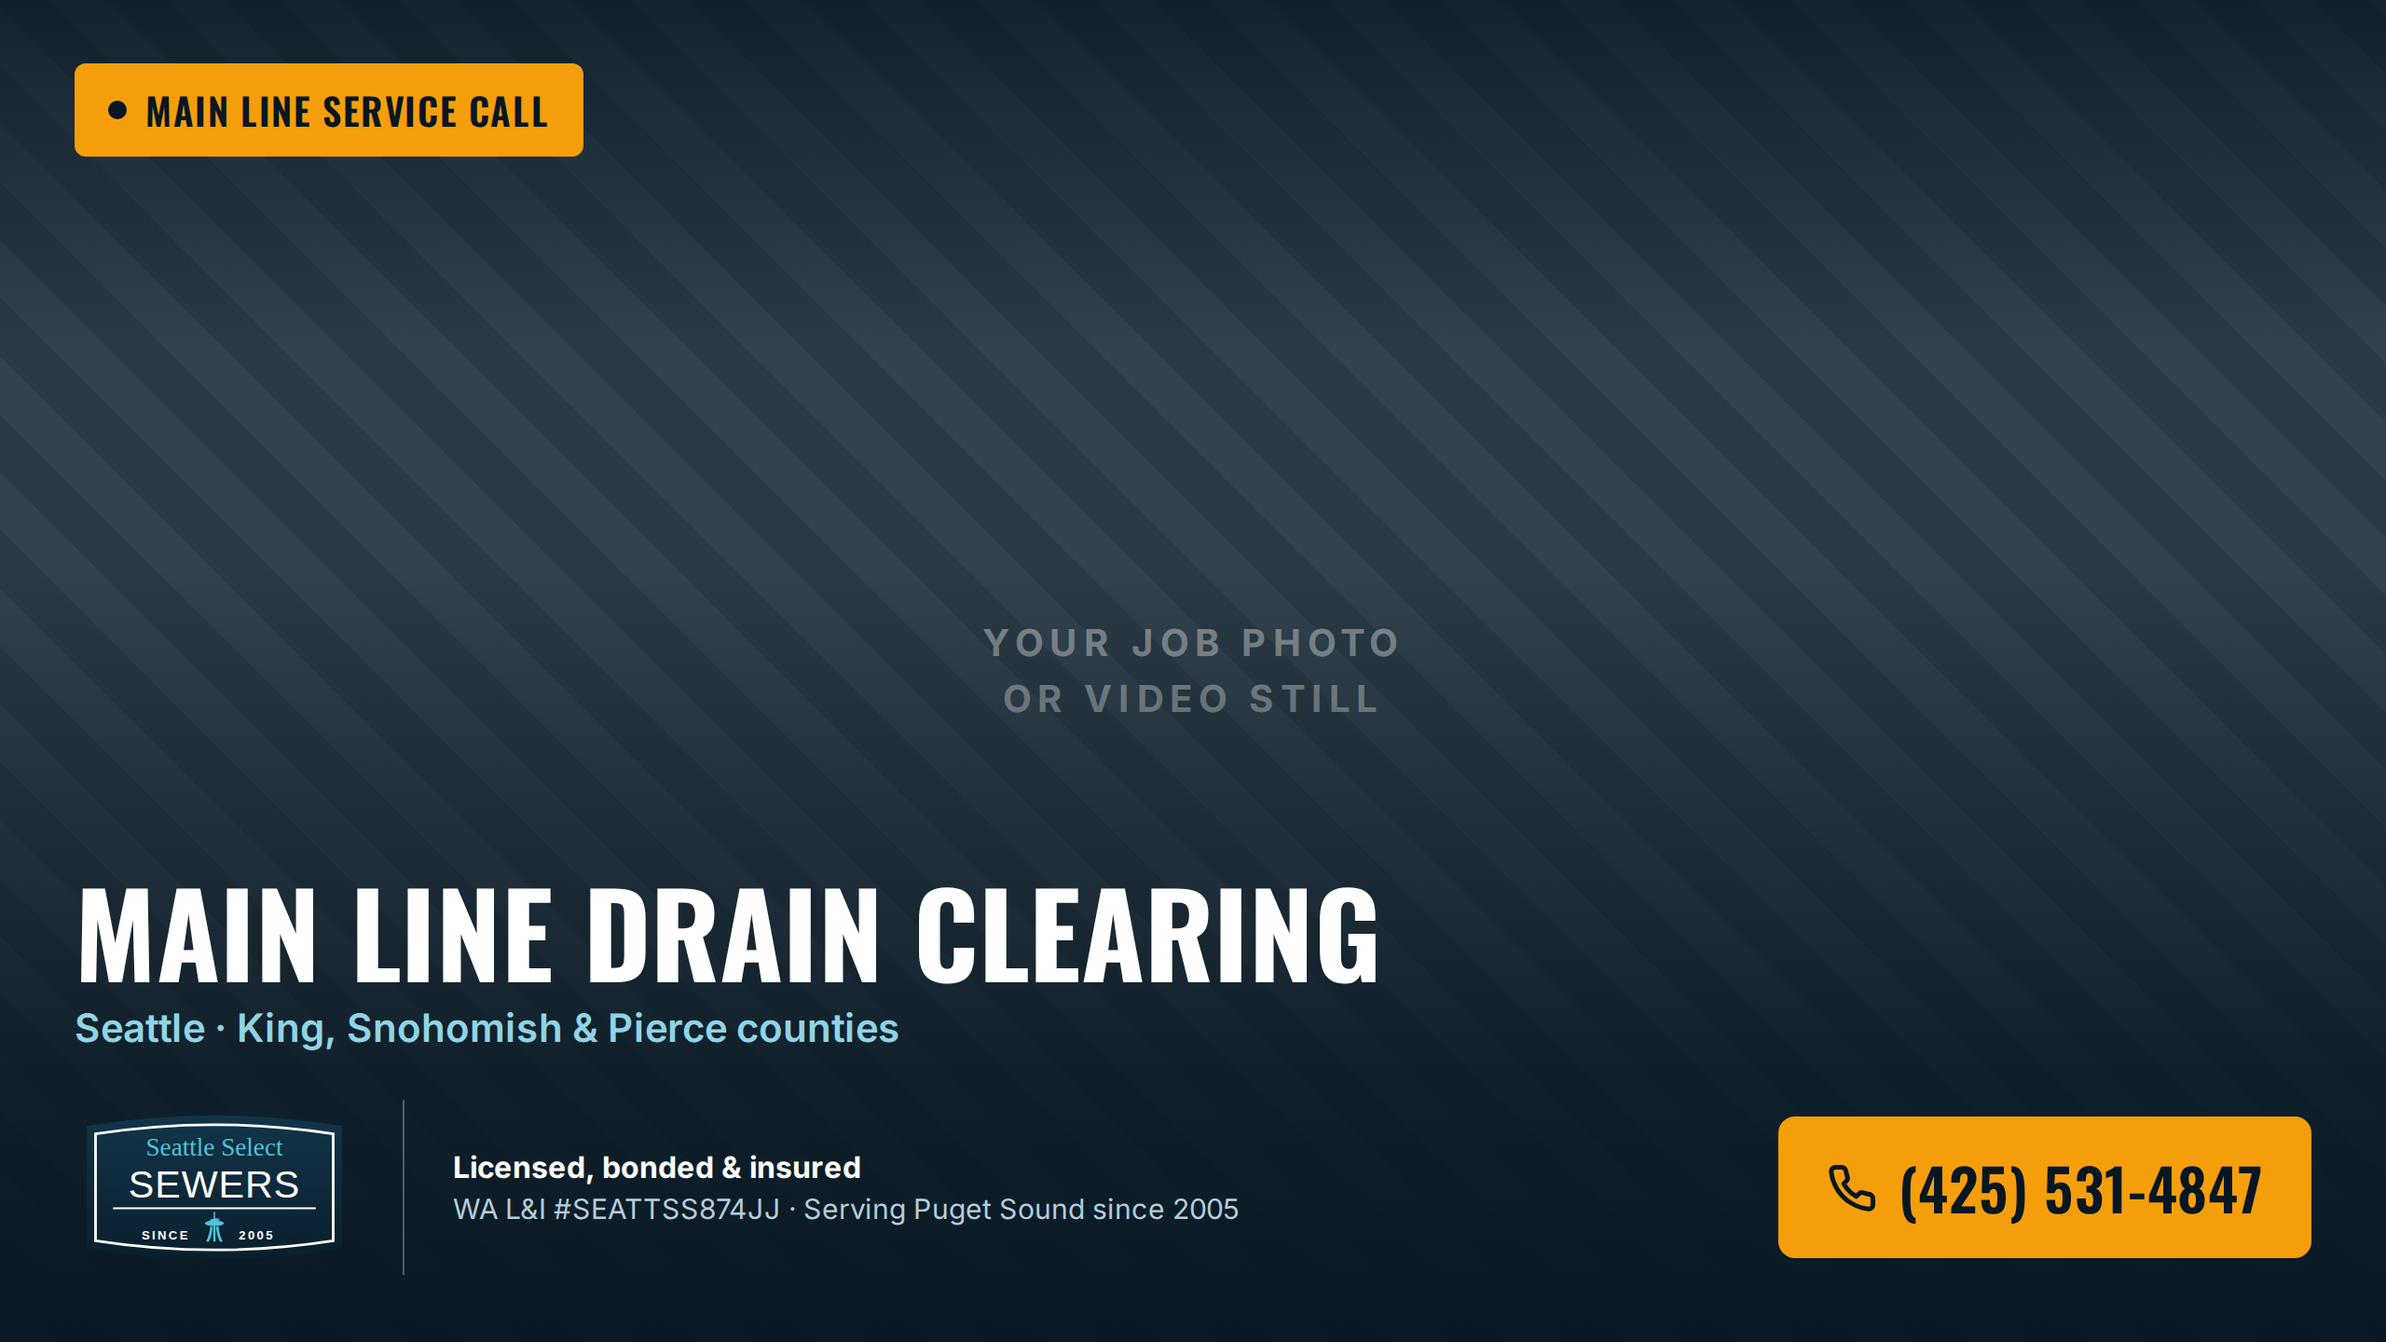
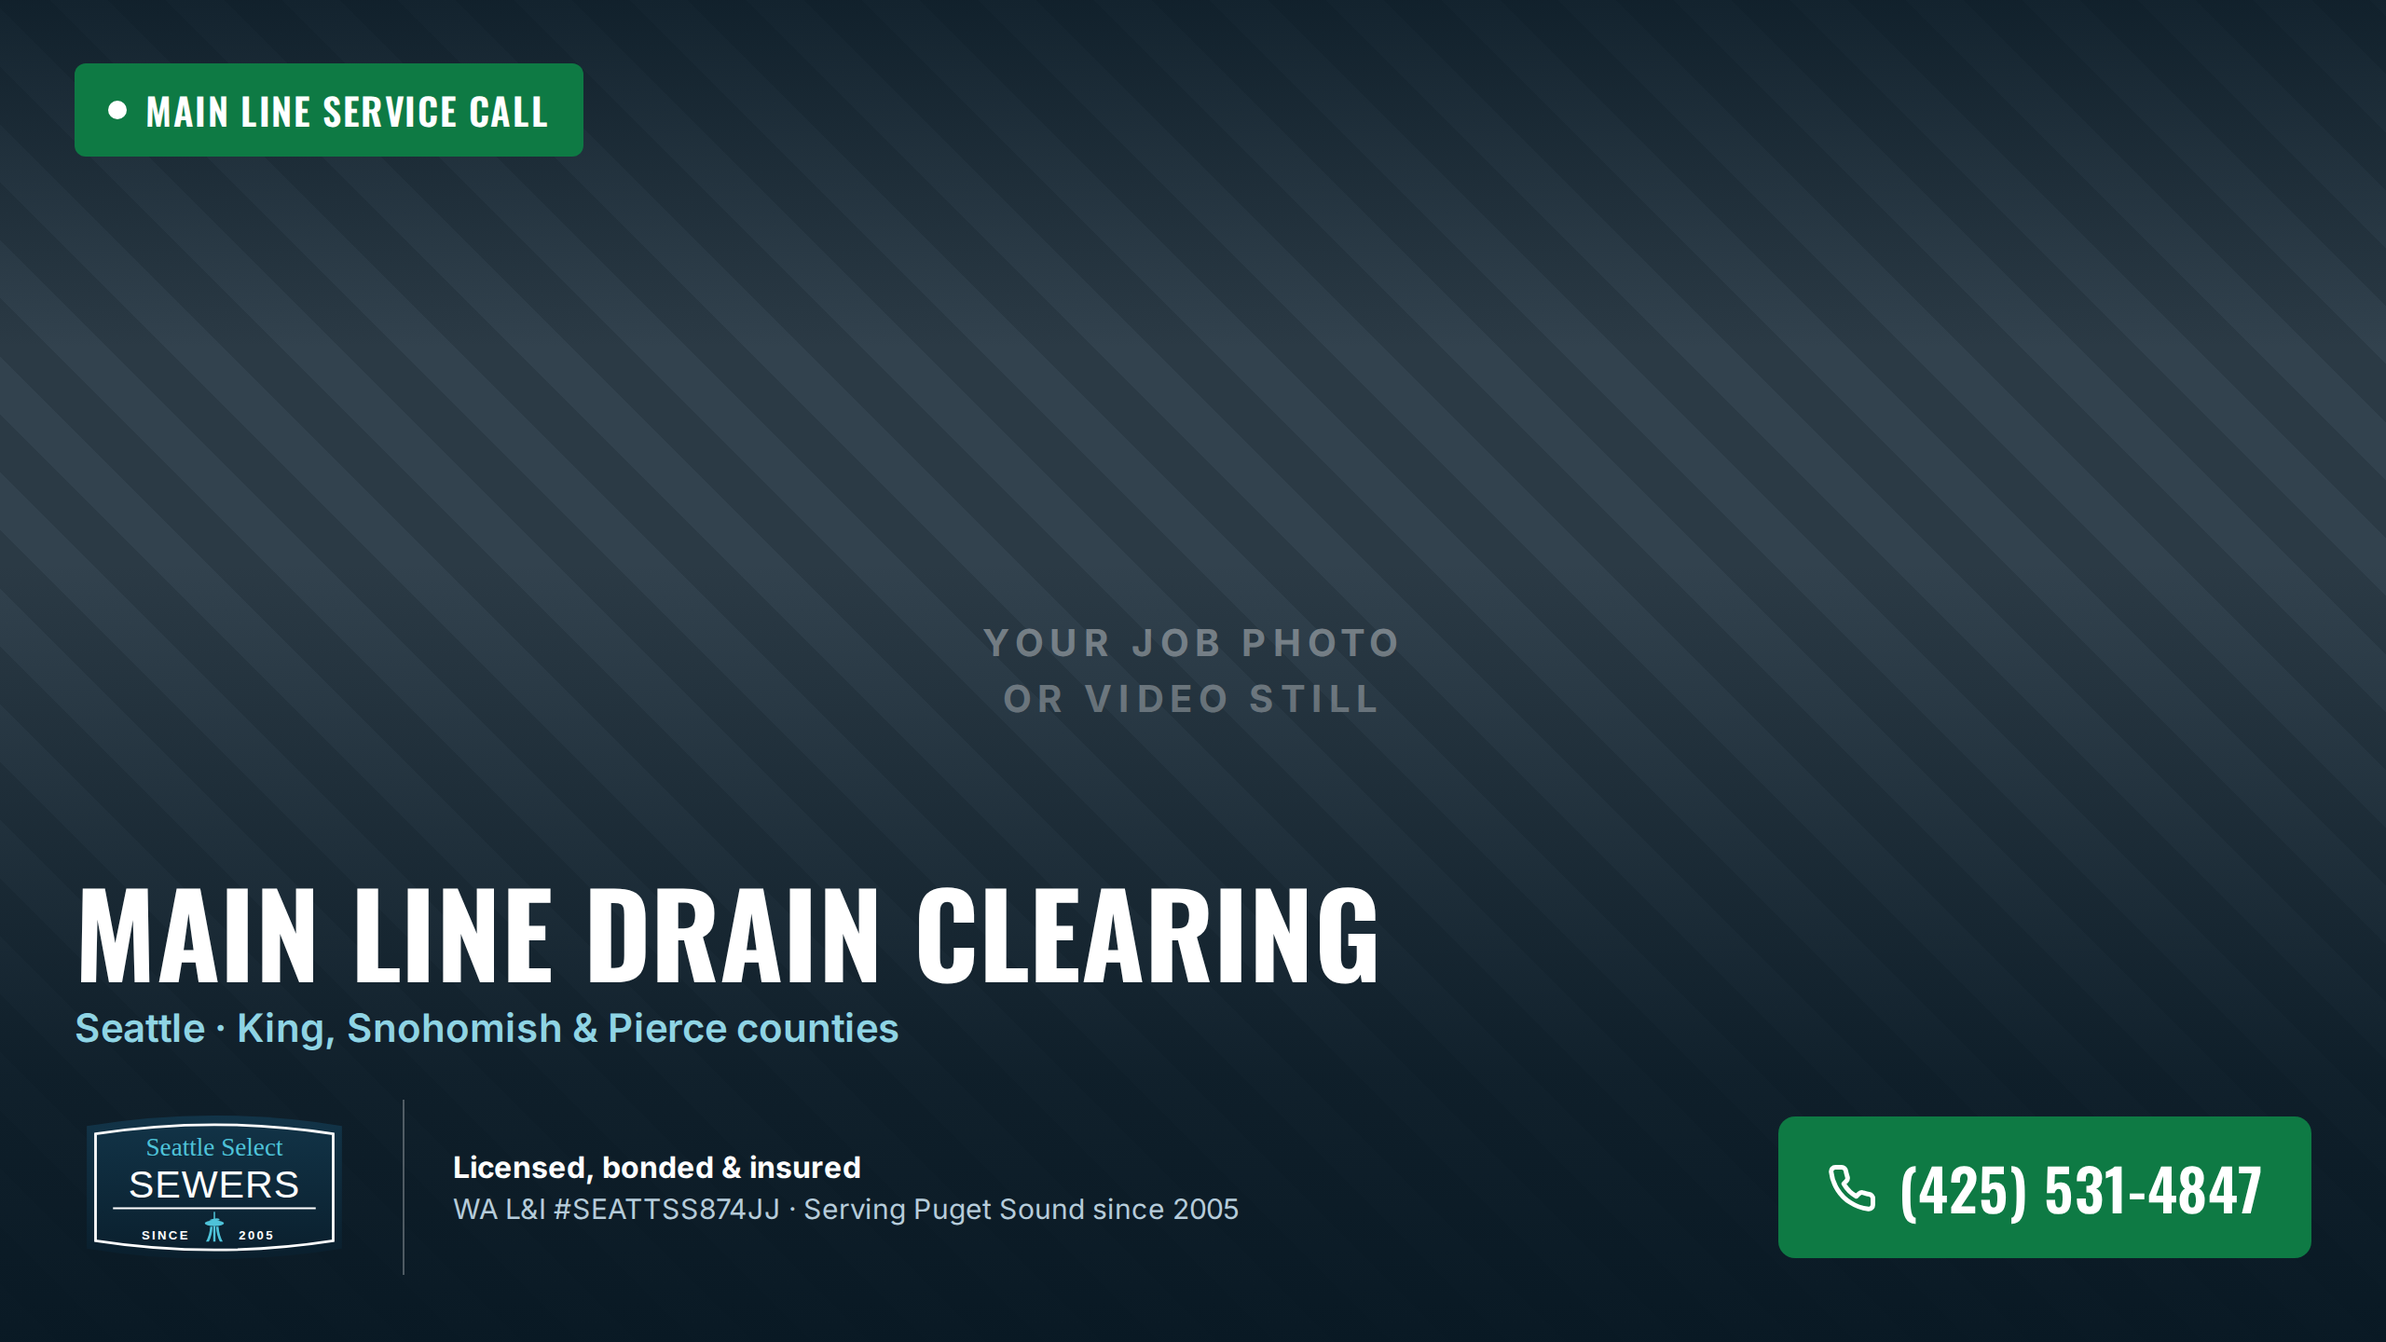
Green CTAs; unify both forms and require every field
Call buttons move from amber to a deep emerald (#0e7a44, white text).
Picked over lighter greens because it stays clearly green beside the teal
it sits next to in the sticky bar while holding 5.4:1 against white — the
brighter candidates fell under 4.5:1 and would have failed on the smaller
form buttons.

Both forms are now the same markup: first and last name, phone, service
ZIP, email, service and description, all required, with the service select
opening on "Choose a service" so it must be picked. Adds an email format
check. The two differ only in element ids and their data-source.

Claude-Session: https://claude.ai/code/session_019kEi4RRtVVLzYmmfQnkD2s

Changed region(s): [[0.7188, 0.8125, 0.9688, 0.9375], [0.0312, 0.0312, 0.25, 0.125]]

diff --git a/seattle-select-sewers/index.html b/seattle-select-sewers/index.html
@@ -103,49 +103,54 @@
         <h2>Request Service</h2>
         <p>Tell us what's going on — we'll call you right back.</p>
       </div>
-      <form class="lead-form" id="lead-form" data-source="hero" novalidate>
+      <form class="lead-form" id="f-form" data-source="hero" novalidate>
         <div class="field-row">
           <div class="field">
-            <label for="f-name">Name <span class="req">*</span></label>
-            <input id="f-name" name="name" type="text" autocomplete="name" required>
+            <label for="f-first">First name <span class="req">*</span></label>
+            <input id="f-first" name="first_name" type="text" autocomplete="given-name" required>
           </div>
+          <div class="field">
+            <label for="f-last">Last name <span class="req">*</span></label>
+            <input id="f-last" name="last_name" type="text" autocomplete="family-name" required>
+          </div>
+        </div>
+        <div class="field-row">
           <div class="field">
             <label for="f-phone">Phone <span class="req">*</span></label>
             <input id="f-phone" name="phone" type="tel" autocomplete="tel" required>
           </div>
-        </div>
-        <div class="field">
-          <label for="f-email">Email</label>
-          <input id="f-email" name="email" type="email" autocomplete="email">
-        </div>
-        <div class="field-row">
           <div class="field">
             <label for="f-zip">Service ZIP <span class="req">*</span></label>
             <input id="f-zip" name="zip" type="text" inputmode="numeric" autocomplete="postal-code" required>
           </div>
-          <div class="field">
-            <label for="f-service">Service needed</label>
-            <select id="f-service" name="service">
-              <option>Not sure — please diagnose</option>
-              <option>Sewer backup / emergency</option>
-              <option>Drain &amp; rooter clearing</option>
-              <option>Leak detection</option>
-              <option>Hydro jetting</option>
-              <option>Sewer line repair</option>
-              <option>Sewer camera inspection</option>
-            </select>
-          </div>
         </div>
         <div class="field">
-          <label for="f-notes">Describe the problem</label>
-          <textarea id="f-notes" name="notes" placeholder="Slow drains, gurgling toilet, water in the yard, pre-purchase inspection…"></textarea>
+          <label for="f-email">Email <span class="req">*</span></label>
+          <input id="f-email" name="email" type="email" autocomplete="email" required>
+        </div>
+        <div class="field">
+          <label for="f-service">Service needed <span class="req">*</span></label>
+          <select id="f-service" name="service" required>
+            <option value="" disabled selected>Choose a service</option>
+            <option>Not sure — please diagnose</option>
+            <option>Sewer backup / emergency</option>
+            <option>Drain &amp; rooter clearing</option>
+            <option>Leak detection</option>
+            <option>Hydro jetting</option>
+            <option>Sewer line repair</option>
+            <option>Sewer camera inspection</option>
+          </select>
+        </div>
+        <div class="field">
+          <label for="f-notes">Describe the problem <span class="req">*</span></label>
+          <textarea id="f-notes" name="notes" required placeholder="Slow drains, gurgling toilet, water in the yard, pre-purchase inspection…"></textarea>
         </div>
         <div class="hp" aria-hidden="true">
           <label for="f-company">Company</label>
           <input id="f-company" name="company" type="text" tabindex="-1" autocomplete="off">
         </div>
         <button class="btn btn--call btn--block btn--lg" type="submit">Get My Free Estimate</button>
-        <p class="form-status" id="form-status" role="status" hidden></p>
+        <p class="form-status" role="status" hidden></p>
         <p class="form-fine">
           By submitting, you agree to be contacted by Seattle Select Sewers about your request.
           Message and data rates may apply. We never sell your information.
@@ -495,15 +500,22 @@
       </div>
 
       <aside class="lead-card" id="request-faq">
-        <div class="lead-card__head">
-          <h2>Still have a question?</h2>
-          <p>Send it over — we'll call you back with a straight answer.</p>
-        </div>
-        <form class="lead-form" id="faq-form" data-source="faq" novalidate>
+      <div class="lead-card__head">
+        <h2>Request Service</h2>
+        <p>Tell us what's going on — we'll call you right back.</p>
+      </div>
+      <form class="lead-form" id="q-form" data-source="faq" novalidate>
+        <div class="field-row">
           <div class="field">
-            <label for="q-name">Name <span class="req">*</span></label>
-            <input id="q-name" name="name" type="text" autocomplete="name" required>
+            <label for="q-first">First name <span class="req">*</span></label>
+            <input id="q-first" name="first_name" type="text" autocomplete="given-name" required>
           </div>
+          <div class="field">
+            <label for="q-last">Last name <span class="req">*</span></label>
+            <input id="q-last" name="last_name" type="text" autocomplete="family-name" required>
+          </div>
+        </div>
+        <div class="field-row">
           <div class="field">
             <label for="q-phone">Phone <span class="req">*</span></label>
             <input id="q-phone" name="phone" type="tel" autocomplete="tel" required>
@@ -512,22 +524,40 @@
             <label for="q-zip">Service ZIP <span class="req">*</span></label>
             <input id="q-zip" name="zip" type="text" inputmode="numeric" autocomplete="postal-code" required>
           </div>
-          <div class="field">
-            <label for="q-notes">What's going on?</label>
-            <textarea id="q-notes" name="notes" placeholder="Recurring backups, a quote you want a second opinion on, a pre-purchase inspection…"></textarea>
-          </div>
-          <div class="hp" aria-hidden="true">
-            <label for="q-company">Company</label>
-            <input id="q-company" name="company" type="text" tabindex="-1" autocomplete="off">
-          </div>
-          <button class="btn btn--call btn--block btn--lg" type="submit">Send My Question</button>
-          <p class="form-status" role="status" hidden></p>
-          <p class="form-fine">
-            Need someone today? Call <a href="tel:+14255314847" data-track="call" data-location="faq-form">(425) 531-4847</a> —
-            we answer 24/7.
-          </p>
-        </form>
-      </aside>
+        </div>
+        <div class="field">
+          <label for="q-email">Email <span class="req">*</span></label>
+          <input id="q-email" name="email" type="email" autocomplete="email" required>
+        </div>
+        <div class="field">
+          <label for="q-service">Service needed <span class="req">*</span></label>
+          <select id="q-service" name="service" required>
+            <option value="" disabled selected>Choose a service</option>
+            <option>Not sure — please diagnose</option>
+            <option>Sewer backup / emergency</option>
+            <option>Drain &amp; rooter clearing</option>
+            <option>Leak detection</option>
+            <option>Hydro jetting</option>
+            <option>Sewer line repair</option>
+            <option>Sewer camera inspection</option>
+          </select>
+        </div>
+        <div class="field">
+          <label for="q-notes">Describe the problem <span class="req">*</span></label>
+          <textarea id="q-notes" name="notes" required placeholder="Slow drains, gurgling toilet, water in the yard, pre-purchase inspection…"></textarea>
+        </div>
+        <div class="hp" aria-hidden="true">
+          <label for="q-company">Company</label>
+          <input id="q-company" name="company" type="text" tabindex="-1" autocomplete="off">
+        </div>
+        <button class="btn btn--call btn--block btn--lg" type="submit">Get My Free Estimate</button>
+        <p class="form-status" role="status" hidden></p>
+        <p class="form-fine">
+          By submitting, you agree to be contacted by Seattle Select Sewers about your request.
+          Message and data rates may apply. We never sell your information.
+        </p>
+      </form>
+    </aside>
     </div>
   </div>
 </section>

diff --git a/seattle-select-sewers/assets/js/main.js b/seattle-select-sewers/assets/js/main.js
@@ -30,8 +30,10 @@
       // Honeypot: silently accept and discard bot submissions.
       if (form.elements.company && form.elements.company.value) return;
 
+      // Every field is required.
+      var required = ['first_name', 'last_name', 'phone', 'email', 'zip', 'service', 'notes'];
       var missing = [];
-      ['name', 'phone', 'zip'].forEach(function (key) {
+      required.forEach(function (key) {
         var field = form.elements[key];
         if (field && !field.value.trim()) {
           missing.push(field.previousElementSibling.textContent.replace('*', '').trim());
@@ -40,6 +42,16 @@
 
       if (missing.length) {
         show(status, 'error', 'Please fill in: ' + missing.join(', ') + '.');
+        (form.elements[required.find(function (k) {
+          var f = form.elements[k]; return f && !f.value.trim();
+        })] || {}).focus?.();
+        return;
+      }
+
+      var email = form.elements.email;
+      if (email && !/^[^\s@]+@[^\s@]+\.[^\s@]{2,}$/.test(email.value.trim())) {
+        show(status, 'error', 'That email address looks incomplete — please check it.');
+        email.focus();
         return;
       }
 

diff --git a/seattle-select-sewers/assets/media/video-poster.html b/seattle-select-sewers/assets/media/video-poster.html
@@ -56,11 +56,11 @@
   .badge {
     position: absolute; top: 34px; left: 40px;
     display: inline-flex; align-items: center; gap: 10px;
-    background: #f59e0b; color: #071722; padding: 10px 18px; border-radius: 6px;
+    background: #0e7a44; color: #fff; padding: 10px 18px; border-radius: 6px;
     font-family: "Oswald", "Arial Narrow", sans-serif; font-weight: 600;
     font-size: 20px; letter-spacing: .04em; text-transform: uppercase;
   }
-  .badge i { width: 10px; height: 10px; border-radius: 50%; background: #071722; }
+  .badge i { width: 10px; height: 10px; border-radius: 50%; background: #fff; }
 
   /* ---- Bottom block ---- */
   .foot { position: absolute; left: 40px; right: 40px; bottom: 36px; }
@@ -79,7 +79,7 @@
 
   .phone {
     margin-left: auto; display: inline-flex; align-items: center; gap: 12px;
-    background: #f59e0b; color: #071722; padding: 15px 26px; border-radius: 9px;
+    background: #0e7a44; color: #fff; padding: 15px 26px; border-radius: 9px;
     font-family: "Oswald", "Arial Narrow", sans-serif; font-weight: 600;
     font-size: 31px; letter-spacing: .01em; white-space: nowrap;
   }

diff --git a/seattle-select-sewers/assets/css/styles.css b/seattle-select-sewers/assets/css/styles.css
@@ -34,6 +34,8 @@
   --teal-400: #4ec3d9;
   --teal-500: #2ba6be;
   --teal-600: #1f8499;
+  --green-600: #0e7a44;
+  --green-700: #0b6438;
   --amber-400: #ffb63d;
   --amber-500: #f59e0b;
   --amber-600: #d97d06;
@@ -102,8 +104,8 @@ ul { margin: 0 0 1rem; padding-left: 1.2em; }
 .btn:focus-visible { outline: 3px solid var(--teal-400); outline-offset: 3px; }
 /* Call-to-action ladder, so two buttons never sit side by side in the same
    color: amber = the call, teal = book online, navy/ghost = the quiet one. */
-.btn--call { background: var(--amber-500); color: var(--navy-900); box-shadow: var(--shadow-md); }
-.btn--call:hover { background: var(--amber-400); }
+.btn--call { background: var(--green-600); color: #fff; box-shadow: var(--shadow-md); }
+.btn--call:hover { background: var(--green-700); }
 .btn--navy { background: var(--navy-800); color: #fff; box-shadow: var(--shadow-md); }
 .btn--navy:hover { background: var(--navy-700); }
 .btn--primary { background: var(--teal-600); color: #fff; box-shadow: var(--shadow-md); }

diff --git a/seattle-select-sewers/README.md b/seattle-select-sewers/README.md
@@ -34,9 +34,16 @@ logo file and update the three `<img src="assets/img/logo.svg">` references
 **2. Lead form endpoint** — `assets/js/main.js`, `FORM_ENDPOINT`. While it's
 empty both forms run in demo mode: they validate, show the success state, and
 send nothing. Point it at the CRM webhook or form service and each POSTs JSON
-(`name, phone, zip, service, notes, source, page`). A honeypot field filters
-bots. There are two forms — the hero and one beside the FAQ — and `source` says
-which one converted (`hero` / `faq`), so you can see which is earning its place.
+(`first_name, last_name, phone, email, zip, service, notes, source, page`). A
+honeypot field filters bots. The hero and FAQ forms are identical; `source`
+says which one converted (`hero` / `faq`), so you can see which earns its place.
+
+Every field is required, including email and the description, and the service
+dropdown opens on "Choose a service" so it has to be picked. That is a
+deliberate trade: better-qualified leads, fewer of them. If volume drops more
+than you want, the quickest lever is making email or the description optional
+again — one entry each in the `required` array in `main.js`, plus the `required`
+attribute and the `*` in the markup.
 
 **3. Review attributions** — the three testimonials are real customer quotes
 pulled from public review listings, but they're credited to "Verified customer."
@@ -63,7 +70,7 @@ Advertising a rating you can't substantiate is a Google Ads policy problem.
 ## Button colors
 
 Three CTA styles, assigned by role so two buttons never sit side by side in the
-same color: `.btn--call` (amber) is the phone, `.btn--primary` (teal) is book
+same color: `.btn--call` (green) is the phone, `.btn--primary` (teal) is book
 online, `.btn--navy` / `.btn--ghost` is the quieter partner. Changing one
 button's class is fine; check its neighbor afterwards.
 
